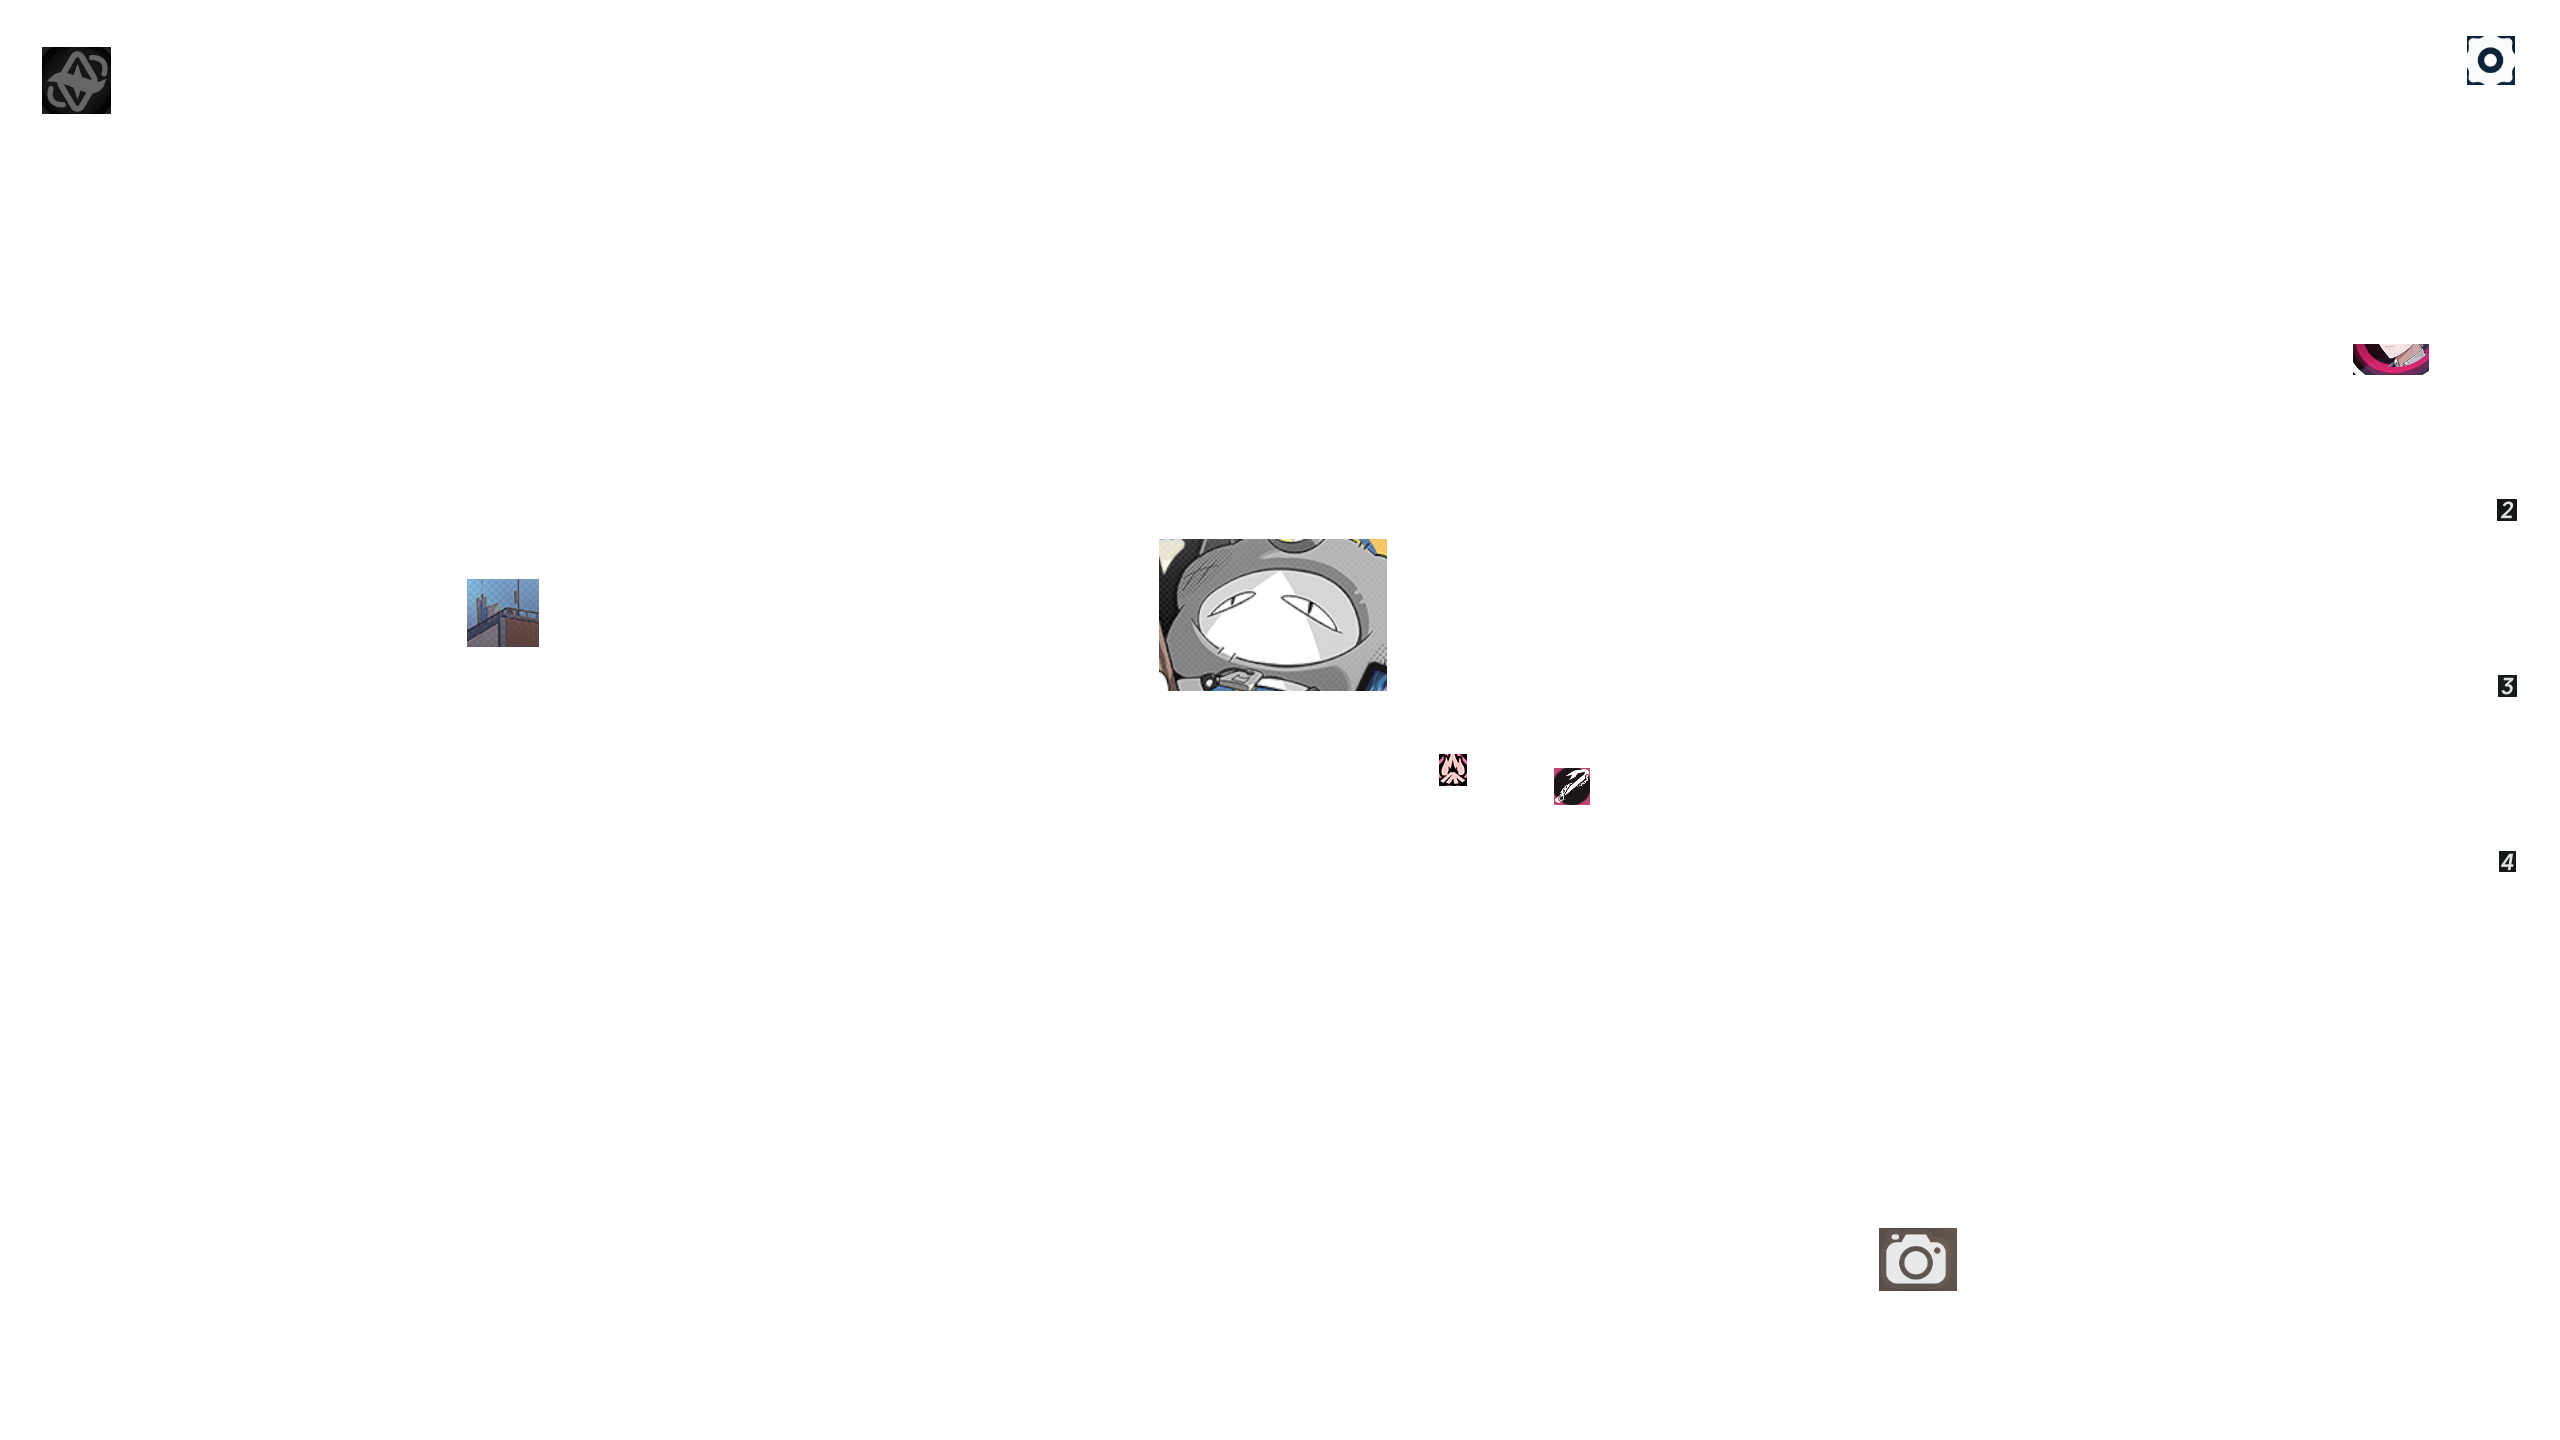
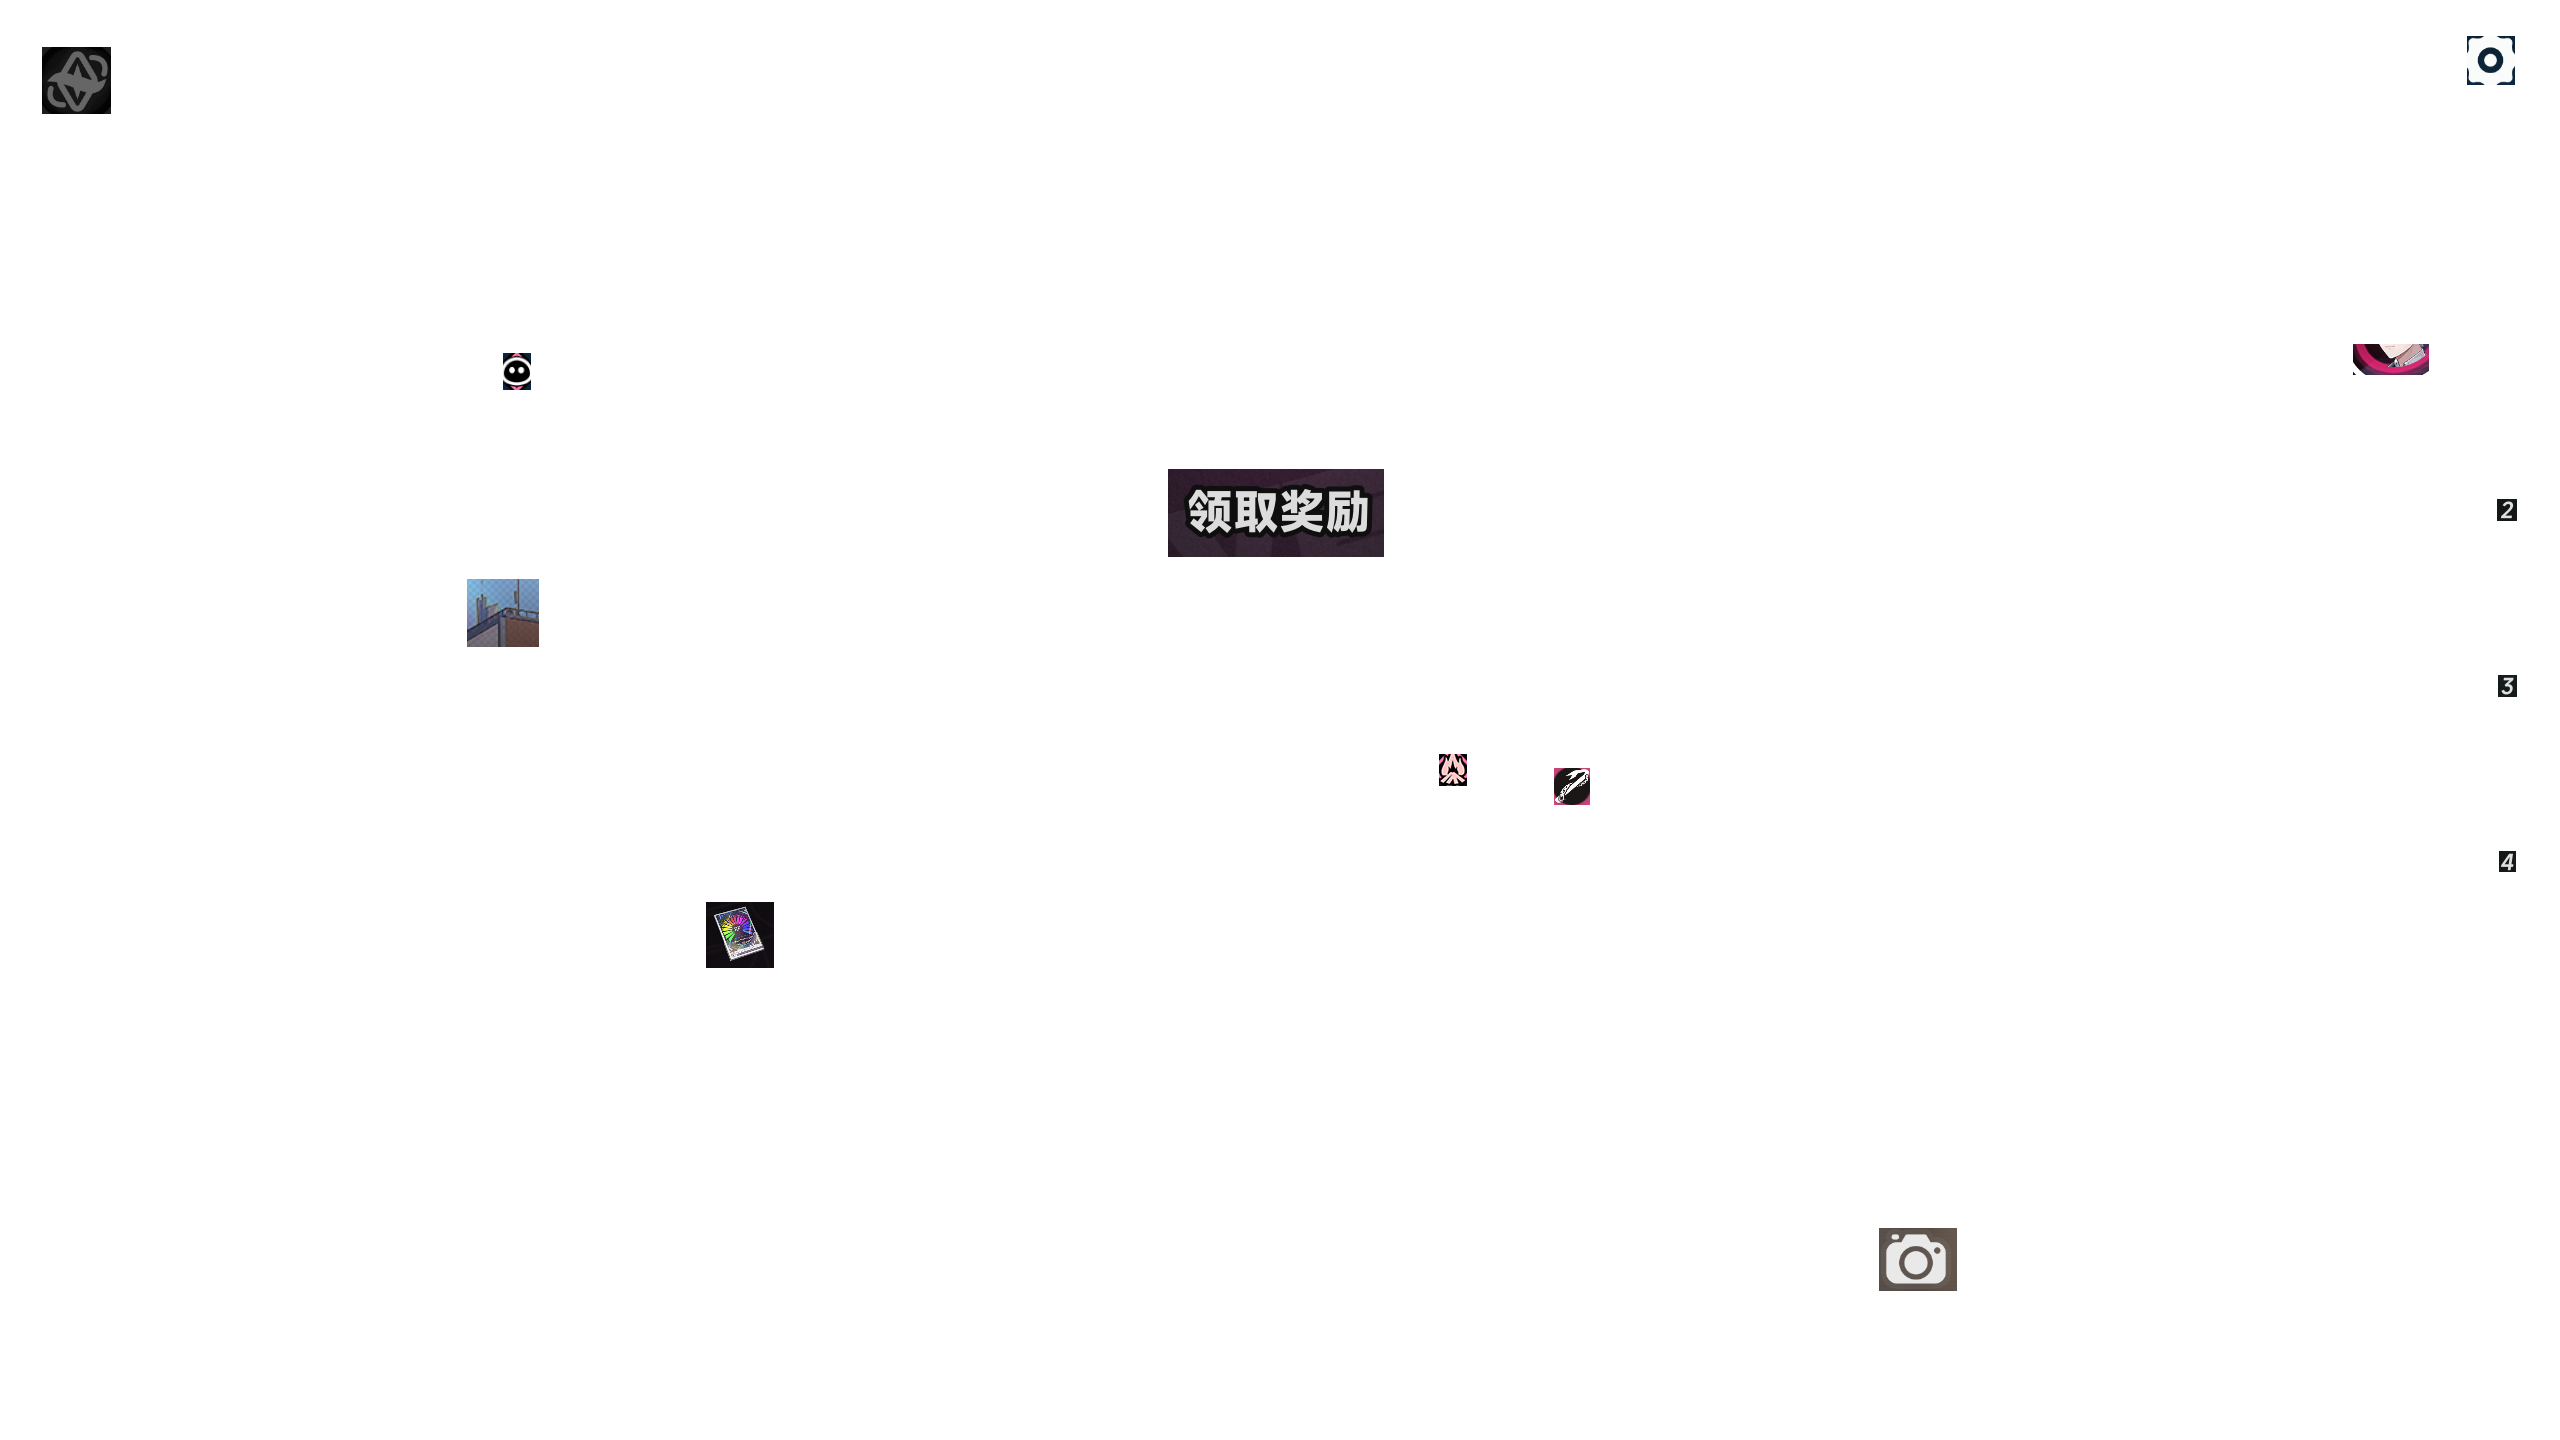
异象狩猎任务模块优化
1.删除冗余特征判断，仅保留boss_treasure特征
2.完善领取奖励得验证判断
3.重试机制边界完善

Changed region(s): [[0.4375, 0.3125, 0.5625, 0.5], [0.25, 0.625, 0.3125, 0.6875], [0.1875, 0.25, 0.2188, 0.2812]]

diff --git a/src/tasks/AnomalyHunter.py b/src/tasks/AnomalyHunter.py
@@ -30,8 +30,10 @@ class AnomalyHunter(NTEOneTimeTask, BaseCombatTask):
         TARGET_SPOTTED_BUTTERFLY,
     ]
 
-    DEFAULT_TREASURE_FEATURES = [Labels.boss_treasure,Labels.boss_treasure_big]
+    DEFAULT_TREASURE_FEATURES = [Labels.boss_treasure]
     BOSS_TREASURE_THRESHOLD = 0.65
+    BOSS_TREASURE_ONCE_SEARCH_TIME = 2
+    BOSS_TREASURE_WALK_TIMEOUT = 10
 
     TASK_COST = 60
     MAX_CONSECUTIVE_FAILURES = 3
@@ -144,7 +146,6 @@ class AnomalyHunter(NTEOneTimeTask, BaseCombatTask):
             self.log_info("当前异象追猎任务完成！")
 
         self.log_info("异象追猎任务完成，尝试传送到最近的电话亭")
-        self.send_key("m")
         self.sleep(1)
         self.click_nearest_map_teleport()
         self.sleep(2)
@@ -281,7 +282,11 @@ class AnomalyHunter(NTEOneTimeTask, BaseCombatTask):
         )
         self.wait_in_team_and_world()
 
-    def find_bosstreasure_once(self):
+    def prepare_bosstreasure_search(self, middle_click_sleep=0.2):
+        self.send_key("a", after_sleep=middle_click_sleep)
+        self.middle_click(after_sleep=middle_click_sleep)
+
+    def find_bosstreasure_in_view(self):
         for feature_name in self.get_bosstreasure_features():
             result = self.find_one(
                 feature_name=feature_name,
@@ -292,30 +297,58 @@ class AnomalyHunter(NTEOneTimeTask, BaseCombatTask):
             if result:
                 return result
 
+    def find_bosstreasure_once(self):
+        self.prepare_bosstreasure_search()
+        return self.wait_until(
+            self.find_bosstreasure_in_view,
+            time_out=self.BOSS_TREASURE_ONCE_SEARCH_TIME,
+            settle_time=0.2,
+            raise_if_not_found=False,
+        )
+
     def find_bosstreasure(self):
         for attempt in range(1, 5):
             self.log_warning(f"Boss宝箱查找次数：{attempt}/4")
-            self.send_key("a", after_sleep=0.2)
-            self.middle_click(after_sleep=3)
-            result = self.find_bosstreasure_once()
+            self.prepare_bosstreasure_search(middle_click_sleep=0.2)
+            result = self.find_bosstreasure_in_view()
             if result:
                 return result
 
-    def walk_to_bosstreasure(self, check_once=False):
+    def has_bosstreasure(self, check_once=False):
         finder = self.find_bosstreasure_once if check_once else self.find_bosstreasure
-        if finder():
-            self.walk_to_box(
-                self.find_bosstreasure_once, end_condition=self.find_interac, y_offset=0.1, x_threshold=0.15
+        return bool(finder())
+
+    def walk_to_bosstreasure(self, check_once=False):
+        if self.has_bosstreasure(check_once=check_once):
+            self.log_warning("前往BOSS宝箱中")
+            reached_interac = self.walk_to_box(
+                self.find_bosstreasure_in_view,
+                time_out=self.BOSS_TREASURE_WALK_TIMEOUT,
+                end_condition=self.find_interac,
+                y_offset=0.1,
+                x_threshold=0.15,
             )
-            return True
+            if reached_interac:
+                return True
+            self.log_warning("前往BOSS宝箱超时，判定为失败")
         return False
 
     def get_bosstreasure_features(self):
         return list(self.DEFAULT_TREASURE_FEATURES)
 
+    def is_claim_page_ready(self):
+        return self.find_one(Labels.claim_page_logo,box=self.main_viewport,threshold=0.7)
+
+    def exit_reward_interaction(self):
+        self.send_key("esc")
+        self.sleep(1)
+        self.operate_click(0.609, 0.659, after_sleep=2)
+
     def do_combat_and_claim(self):
         self.log_info("战斗前检查是否有上次未领取的BOSS宝箱")
-        pending_reward_ready = self.walk_to_bosstreasure(check_once=True)
+        pending_reward_ready = self.has_bosstreasure(check_once=True)
+        self.send_key("d", after_sleep=0.5)
+        self.middle_click(after_sleep=0.5)
         if pending_reward_ready:
             self.log_info("发现BOSS宝箱，跳过战斗")
         else:
@@ -328,21 +361,26 @@ class AnomalyHunter(NTEOneTimeTask, BaseCombatTask):
 
         def action(count):
             nonlocal pending_reward_ready, claimed_reward
-            reward_found = pending_reward_ready
-            pending_reward_ready = False
+            reward_found = bool(self.find_interac())
             if not reward_found:
-                reward_found = self.walk_to_bosstreasure()
+                reward_found = self.walk_to_bosstreasure(check_once=pending_reward_ready)
+            pending_reward_ready = False
 
             claimed_reward = bool(reward_found)
             if reward_found:
                 self.log_info("发现宝箱，正在领取交互中")
                 self.send_interac(handle_claim=False)
-                self.operate_click(0.609, 0.659, after_sleep=2)
+                if self.wait_until(self.is_claim_page_ready, raise_if_not_found=False, time_out=5):
+                    self.log_info("发现奖励领取页面，领取奖励")
+                    #self.log_warning("测试提示：领取成功")
+                    self.operate_click(0.609, 0.659, after_sleep=2)
+                else:
+                    claimed_reward = False
+                    self.log_warning("未能进入领取奖励界面，退出当前环境交互中")
+                    self.exit_reward_interaction()
             else:
-                self.log_warning("未发现宝箱，退出当前环境交互中")
-                self.send_key("esc")
-                self.sleep(1)
-                self.operate_click(0.609, 0.659, after_sleep=2)
+                self.log_warning("领取奖励失败，退出当前环境交互中")
+                self.exit_reward_interaction()
             return True
 
         if not self.retry_on_action(action):

diff --git a/src/Labels.py b/src/Labels.py
@@ -73,6 +73,4 @@ class Labels(str, Enum):
     treasure = 'treasure'
     ult_ready = 'ult_ready'
     boss_treasure = 'boss_treasure'
-    boss_treasure_near = 'boss_treasure_near'
-    boss_treasure_far = 'boss_treasure_far'
-    boss_treasure_big = 'boss_treasure_big'
+    claim_page_logo = 'claim_page_logo'
